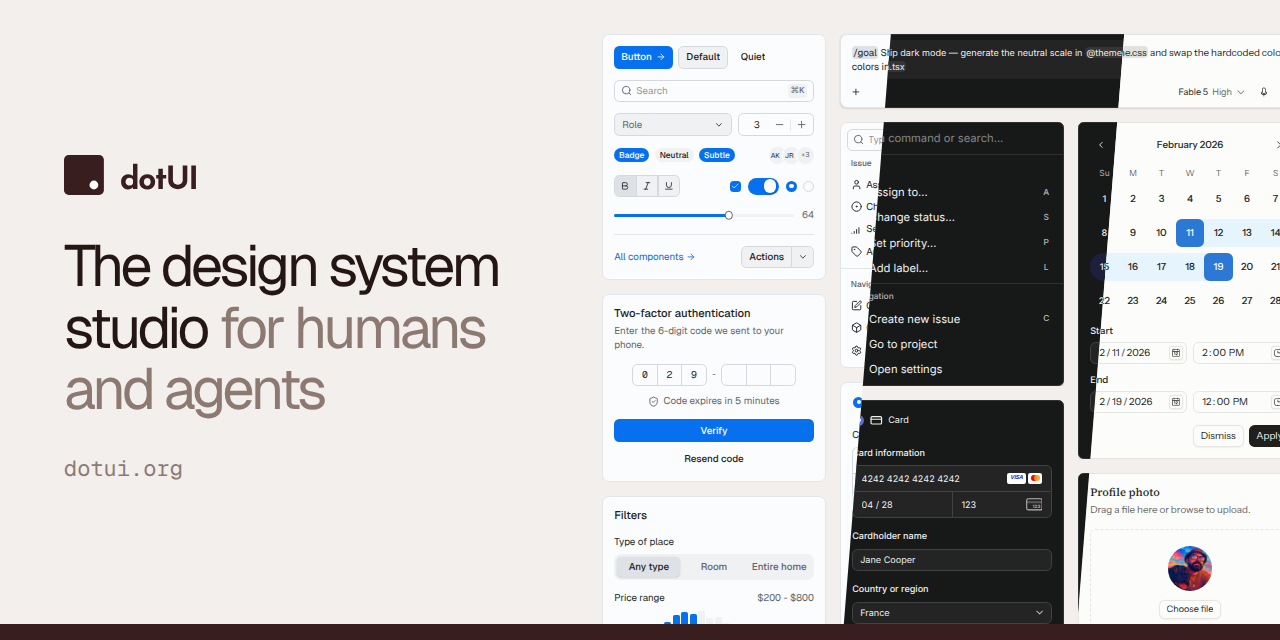
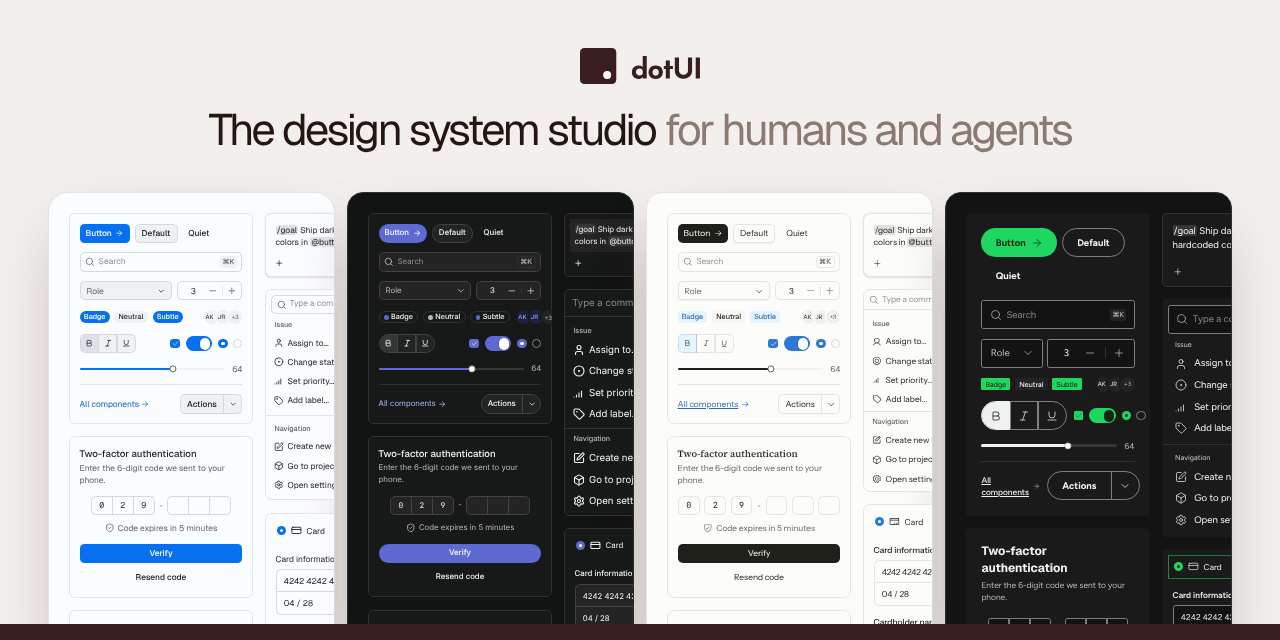
feat(brand): stack presets side by side under the cover headline
Claude-Session: https://claude.ai/code/session_0173tEVFVdYHpvC86SQVDUR2

diff --git a/www/src/modules/marketing/cover.tsx b/www/src/modules/marketing/cover.tsx
@@ -7,62 +7,47 @@ import { DesignSystemProvider } from "@/lib/styles"
 import { CardsGrid } from "@/components/showcase/cards-grid"
 import { resolvePreset } from "@/modules/presets"
 
-/* Left to right: the same cards grid under each preset, cut into diagonal bands. */
-const BANDS: { preset: string; mode: "light" | "dark" }[] = [
+const PRESETS: { preset: string; mode: "light" | "dark" }[] = [
   { preset: "origin", mode: "light" },
   { preset: "linear", mode: "dark" },
   { preset: "claude", mode: "light" },
+  { preset: "spotify", mode: "dark" },
 ]
-const SKEW = 8 // % of the grid's width each band edge leans by, top to bottom.
-
-function bandClip(index: number) {
-  const width = 100 / BANDS.length
-  const from = index === 0 ? -100 : index * width
-  const to = index === BANDS.length - 1 ? 200 : (index + 1) * width
-  return `polygon(${from + SKEW}% 0, ${to + SKEW}% 0, ${to - SKEW}% 100%, ${from - SKEW}% 100%)`
-}
 
 const [lead, rest] = siteConfig.tagline.split(/ (?=for )/)
+
+function PresetContainer({ preset, mode }: (typeof PRESETS)[number]) {
+  const designSystem = resolvePreset(preset)
+  return (
+    <DesignSystemProvider
+      scoped
+      forcedMode={mode}
+      params={designSystem.componentParams}
+      tokens={designSystem.tokens}
+      density={designSystem.density}
+      color={designSystem.color}
+      icons={designSystem.icons}
+    >
+      <div className="h-[480px] flex-1 overflow-hidden rounded-2xl border border-border bg-bg p-5 shadow-[0_24px_64px_-24px_rgb(56_30_30/0.4)]">
+        <CardsGrid side={false} className="w-[960px] zoom-[0.6]" />
+      </div>
+    </DesignSystemProvider>
+  )
+}
 
 /* The social cover: the GitHub social preview and the site's share image.
    `scripts/capture-cover.mts` screenshots it at each size it ships in. */
 export function Cover() {
   return (
-    <div className="relative h-svh w-svw overflow-hidden bg-[#f2efec] font-sans text-[#231613]">
-      <div className="absolute inset-y-0 left-16 z-10 flex w-[28rem] flex-col justify-center">
-        <img
-          src="/brand/dotui-wordmark.svg"
-          alt="dotUI"
-          className="h-10 w-fit"
-        />
-        <h1 className="mt-10 font-features-['calt'_0,'rlig','ss11'] text-[58px] leading-[1.06] font-normal tracking-[-0.06em] text-balance antialiased">
-          {lead} <span className="text-[#8c7a72]">{rest}</span>
-        </h1>
-        <p className="mt-8 font-mono text-[22px] text-[#8c7a72]">dotui.org</p>
-      </div>
-      <div className="absolute top-12 left-[47%] w-[1000px] zoom-[0.7]">
-        {BANDS.map(({ preset, mode }, index) => {
-          const designSystem = resolvePreset(preset)
-          return (
-            <div
-              key={preset}
-              className="absolute inset-x-0 top-0"
-              style={{ clipPath: bandClip(index) }}
-            >
-              <DesignSystemProvider
-                scoped
-                forcedMode={mode}
-                params={designSystem.componentParams}
-                tokens={designSystem.tokens}
-                density={designSystem.density}
-                color={designSystem.color}
-                icons={designSystem.icons}
-              >
-                <CardsGrid side={false} />
-              </DesignSystemProvider>
-            </div>
-          )
-        })}
+    <div className="relative flex h-svh w-svw flex-col items-center overflow-hidden bg-[#f2efec] pt-12 font-sans text-[#231613]">
+      <img src="/brand/dotui-wordmark.svg" alt="dotUI" className="h-9" />
+      <h1 className="mt-6 font-features-['calt'_0,'rlig','ss11'] text-[44px] leading-none font-normal tracking-[-0.06em] antialiased">
+        {lead} <span className="text-[#8c7a72]">{rest}</span>
+      </h1>
+      <div className="mt-10 flex w-full gap-3 px-12">
+        {PRESETS.map((p) => (
+          <PresetContainer key={p.preset} {...p} />
+        ))}
       </div>
       <div className="absolute inset-x-0 bottom-0 z-10 h-4 bg-[#381e1e]" />
       <ReadySignal />
